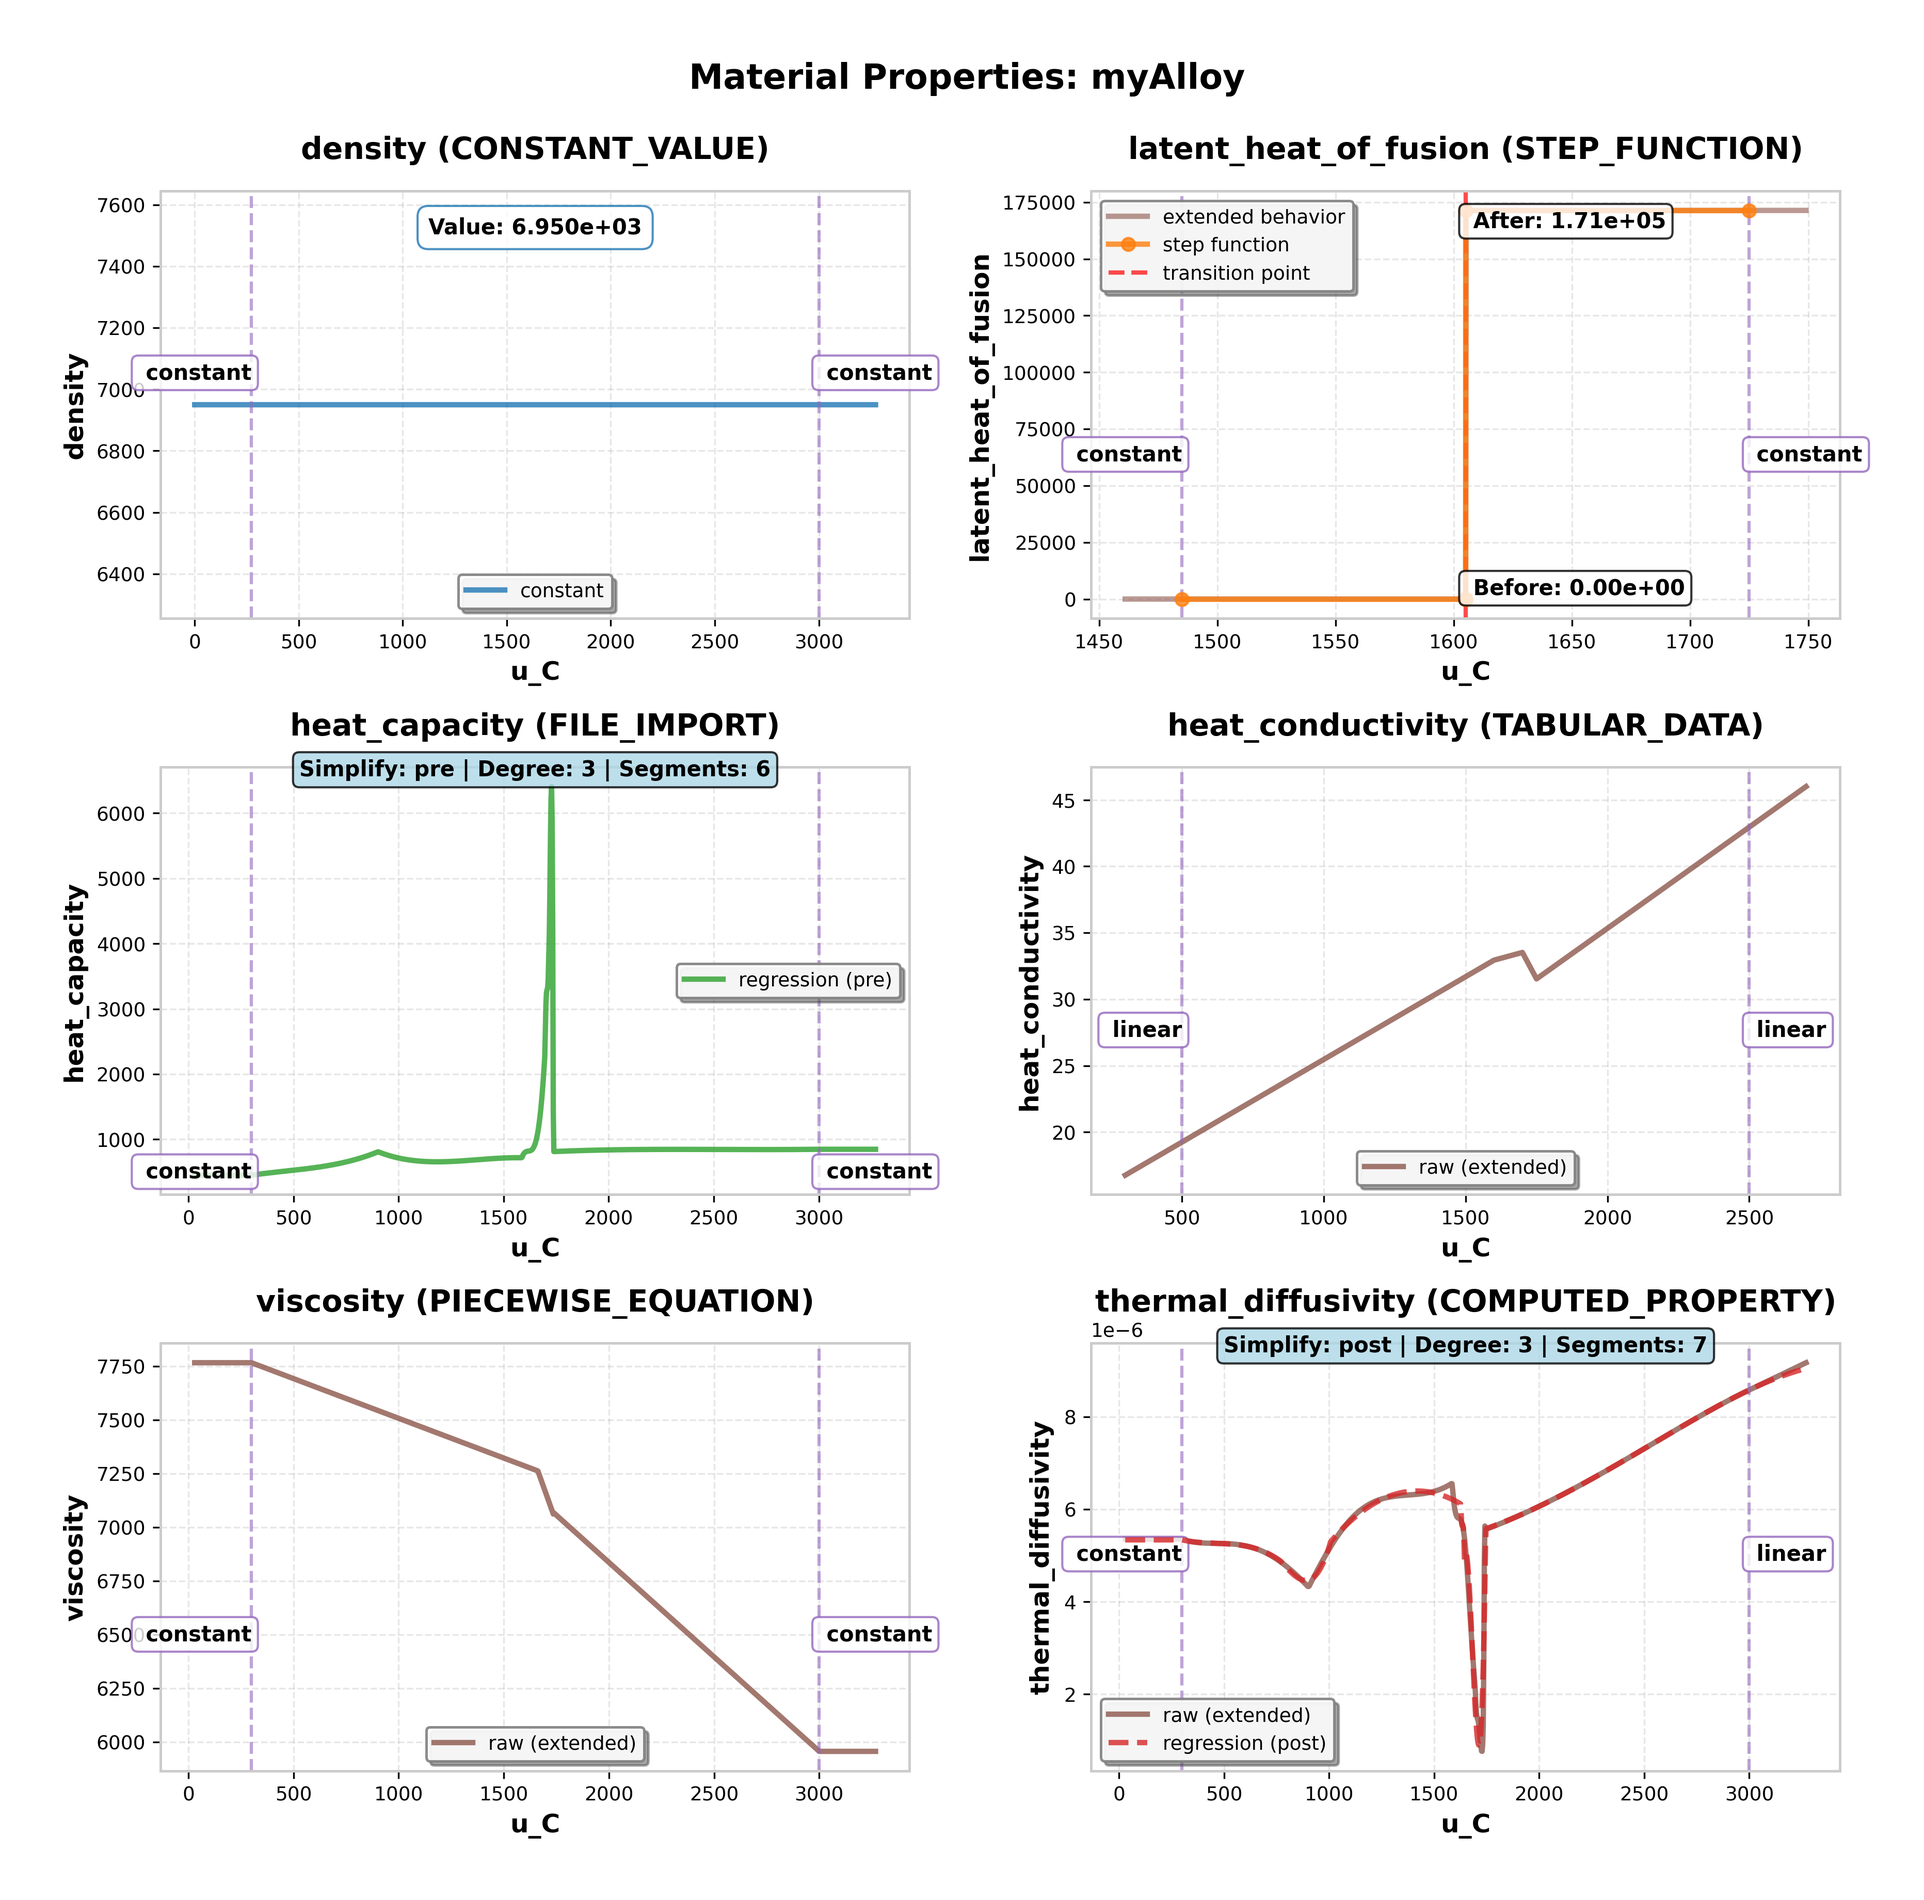
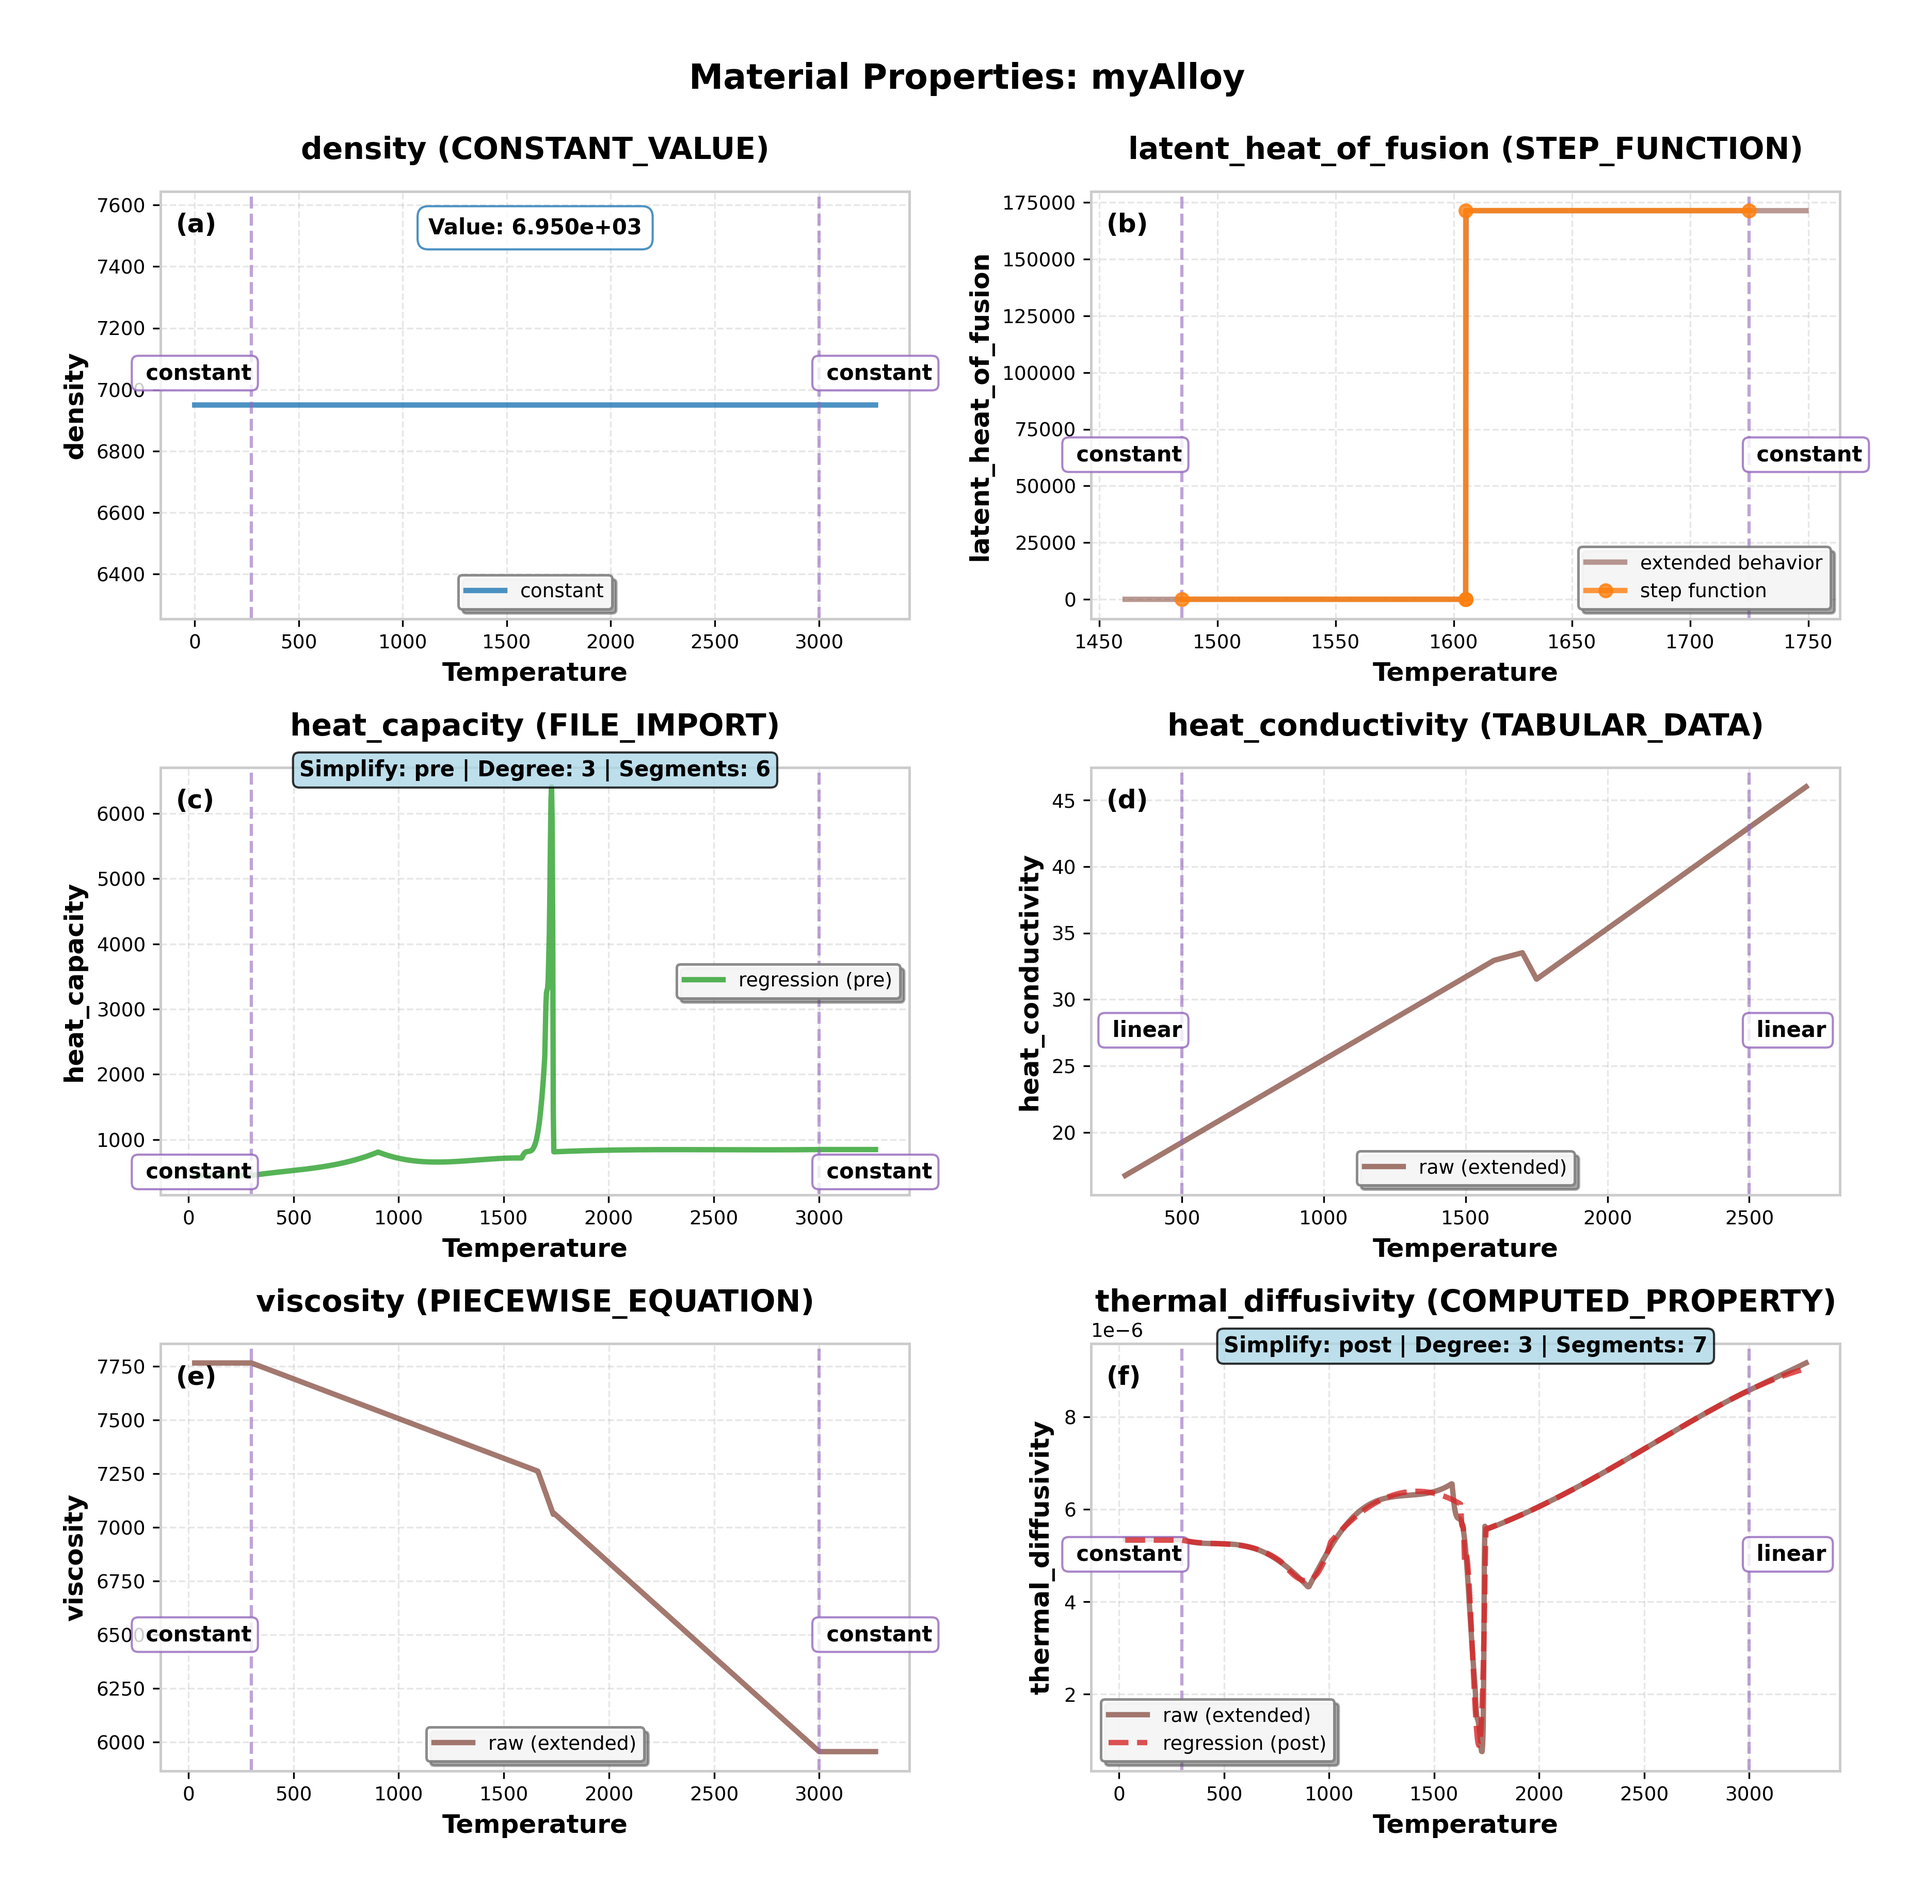
Change x-axis label for figure 2 subplots, update paper.md

diff --git a/src/materforge/visualization/plotters.py b/src/materforge/visualization/plotters.py
@@ -72,7 +72,7 @@ class PropertyVisualizer:
             raise ValueError("No properties to plot.")
         property_count = sum(len(props) for props in self.parser.categorized_properties.values())
         logger.info("Initializing visualization for %d properties", property_count)
-        ncols = 1
+        ncols = 2
         nrows = int(np.ceil(property_count / ncols))
         fig_width = 12
         fig_height = max(4 * nrows, 4)  # scale by rows, not properties
@@ -190,7 +190,7 @@ class PropertyVisualizer:
                                 label='step function', zorder=3, alpha=0.8)
                         transition_idx = len(x_data) // 2
                         transition_point = x_data[transition_idx]
-                        ax.axvline(x=transition_point, color='red', linestyle='--',
+                        """ax.axvline(x=transition_point, color='red', linestyle='--',
                                    alpha=0.7, linewidth=2, label='transition point')
                         ax.text(transition_point, y_data[0], f" Before: {y_data[0]:.2e}",
                                 verticalalignment="bottom", horizontalalignment="left",
@@ -199,7 +199,7 @@ class PropertyVisualizer:
                         ax.text(transition_point, y_data[-1], f" After: {y_data[-1]:.2e}",
                                 verticalalignment="top", horizontalalignment="left",
                                 fontweight="bold",
-                                bbox=dict(facecolor='white', alpha=0.8, boxstyle='round,pad=0.3'))
+                                bbox=dict(facecolor='white', alpha=0.8, boxstyle='round,pad=0.3'))"""
                         _y_value = float(np.mean(y_data))
                         logger.debug("Step %r - transition at %.1f", prop_name, transition_point)
                     else:

diff --git a/examples/myAlloy.py b/examples/myAlloy.py
@@ -17,7 +17,7 @@ from materforge.parsing.api import (
 MATERIAL_CONFIGS = [
     #("src/materforge/data/materials/Al.yaml", "T_Al"),
     #("src/materforge/data/materials/1.4301.yaml", "T_SS"),
-    ("examples/myAlloy.yaml", "u_C"),
+    ("examples/myAlloy.yaml", "Temperature"),
     #("src/materforge/data/materials/Al2O3.yaml", "T_Al2O3"),
 ]
 

diff --git a/paper/paper.md b/paper/paper.md
@@ -24,7 +24,7 @@ affiliations:
     index: 2
   - name: Erlangen National High Performance Computing Center (NHR@FAU), Erlangen, Germany
     index: 3
-date: 16 March 2026
+date: 17 March 2026
 bibliography: paper.bib
 ---
 
@@ -49,7 +49,7 @@ Thermodynamic modeling tools such as pycalphad [@pycalphad] and CALPHAD database
 This creates a gap between property data generation and simulation integration, leading to ad hoc solutions that hinder workflow efficiency and FAIR data adoption [@wilkinson2016fair].
 MaterForge fills this gap by occupying a dedicated post-processing layer in the materials simulation workflow, complementing rather than competing with thermodynamic modeling tools: pycalphad generates the data; MaterForge prepares it for simulation.
 
-# Position in the Simulation Workflow
+# Simulation Workflow
 
 MaterForge is designed to operate as the intermediate layer in a three-stage workflow:
 
@@ -83,14 +83,6 @@ Because properties are SymPy expressions, they plug into symbolic assignment col
 - **Configurable Boundary Behavior**: Users can define how properties behave outside their specified ranges, choosing between `constant`-value clamping or `linear` extrapolation to best match the physical behavior of the material.
   The boundary behavior options work seamlessly with the regression capabilities to provide comprehensive data processing control (\autoref{fig:regression_options_with_boundary_behavior}).
 
-```yaml
-    bounds: [constant, linear]
-    regression:
-      simplify: post
-      degree: 2
-      segments: 3
-```
-
 - **Inverse Property Computation**: The library can generate inverse piecewise-linear functions, enabling the determination of the independent variable from a known property value.
   This capability is essential for energy-based numerical methods [@voller1987fixed], where temperature is recovered via the inverse of the specific enthalpy function.
 
@@ -116,19 +108,19 @@ name: myAlloy
 
 properties:
 
-  density: 6950
+  density: 6950  # Fig. 2a
 
-  latent_heat_of_fusion:
+  latent_heat_of_fusion:  # Fig. 2b
     dependency: density / 4.33
     value: [0, 171401]
     bounds: [constant, constant]
 
-  heat_conductivity:
+  heat_conductivity:  # Fig. 2c
     dependency: [500, 1000, 1600, 1700, 1750, 2000, 2500]
     value: [19.25, 25.47, 32.94, 33.52, 31.53, 35.33, 42.95]
     bounds: [linear, linear]
 
-  heat_capacity:
+  heat_capacity:  # Fig. 2d
     file_path: ./myAlloy.csv
     dependency_column: T (K)
     property_column: Specific heat (J/(Kg K))
@@ -138,15 +130,15 @@ properties:
       degree: 3
       segments: 6
 
-  viscosity:
+  viscosity:  # Fig. 2e
     dependency: [300, 1660, 1736, 3000]
     equation: [7877.39-0.37*T, 11816.63-2.74*T, 8596.40-0.88*T]
     bounds: [constant, constant]
 
-  thermal_diffusivity:
+  thermal_diffusivity:  # Fig. 2f
     dependency: (3000, 300, -5.0)
     equation: heat_conductivity /(density * heat_capacity)
-    bounds: [constant, linear]
+    bounds: [linear, linear]
     regression:
       simplify: post
       degree: 3
@@ -171,7 +163,7 @@ myAlloy_at_500K = myAlloy.evaluate(T, 500.0)
 print(float(myAlloy_at_500K.density))   # numeric density at 500 K
 ```
 
-![Automatically generated material property plots for the example alloy `myAlloy` defined in \autoref{sec:usage-yaml-example}, illustrating constant, step-function, file-based, tabular, piecewise-equation, and computed properties.\label{fig:myAlloy_properties}](figures/myAlloy_properties_3x2.png)
+![Automatically generated material property plots for the example alloy `myAlloy` defined in \autoref{sec:usage-yaml-example}, illustrating constant (a), step-function (b), file-based (c), tabular (d), piecewise-equation (e), and computed (f) properties.\label{fig:myAlloy_properties}](figures/myAlloy_properties_3x2.png)
 
 # Research Applications
 
@@ -186,7 +178,7 @@ The package can be installed via [PyPI](https://pypi.org/project/materforge/) us
 
 # AI Usage Disclosure
 
-GitHub Copilot (VS Code) was used during source code development for boilerplate completions, class scaffolding, and exception handling patterns.
+GitHub Copilot was used during source code development for boilerplate completions, class scaffolding, and exception handling patterns.
 Claude Sonnet 4.6 was used during the review and release cycle for targeted code refactoring, documentation correction, and manuscript editing.
 All AI-assisted outputs were reviewed, edited, and validated by the human authors, who designed the overall code architecture and take full responsibility for the accuracy and correctness of all submitted materials.
 
